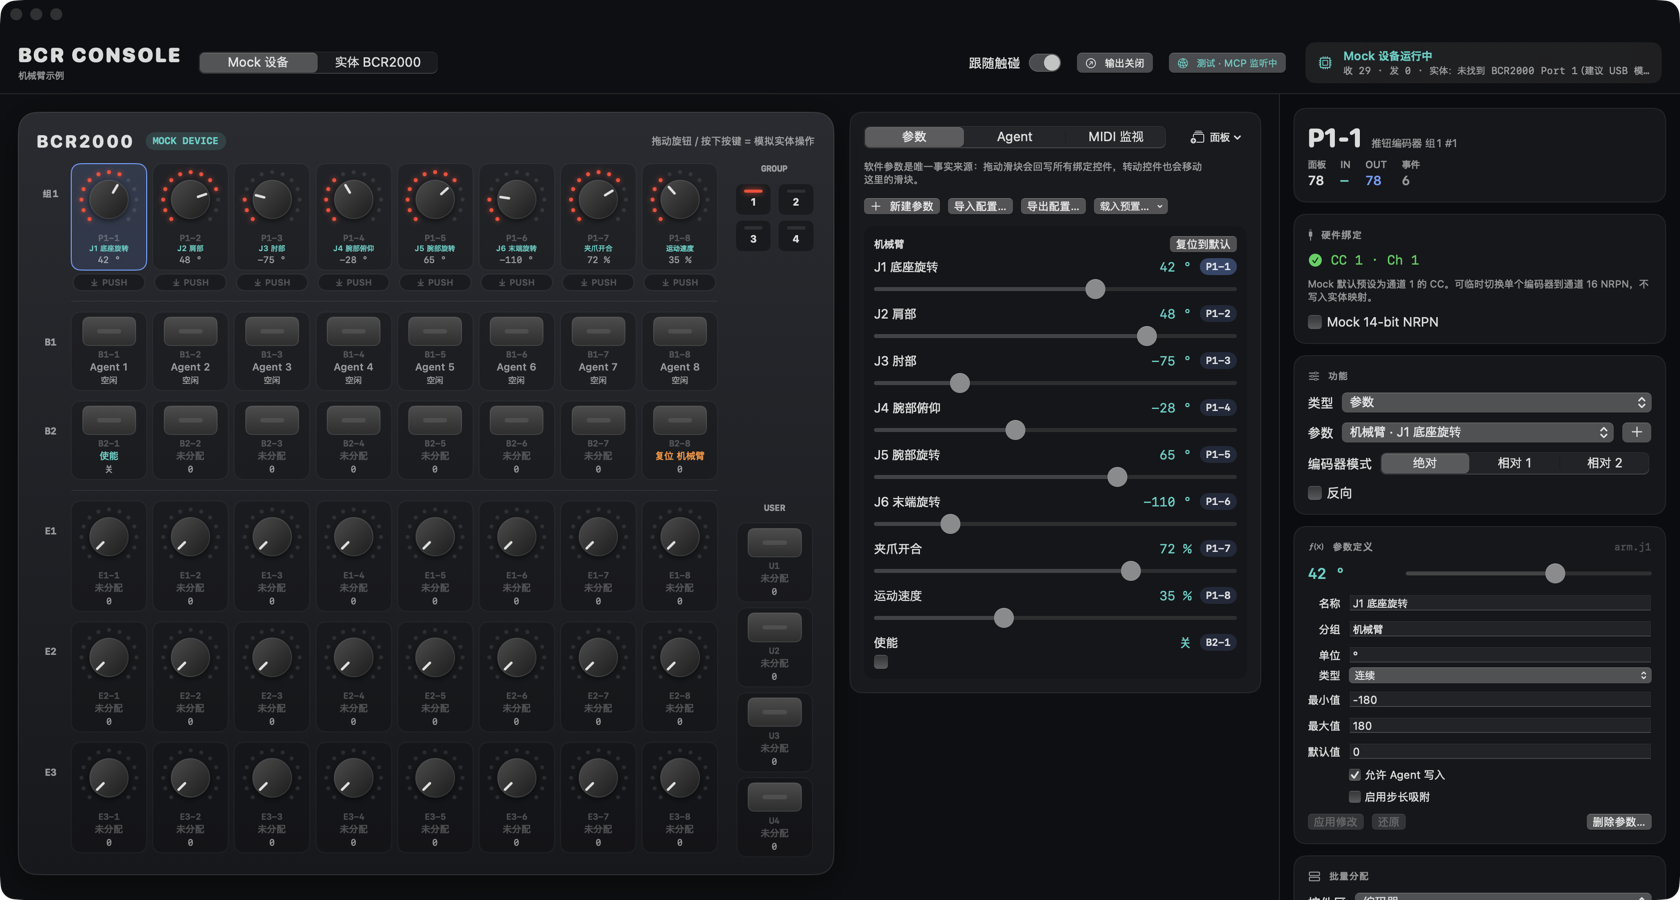
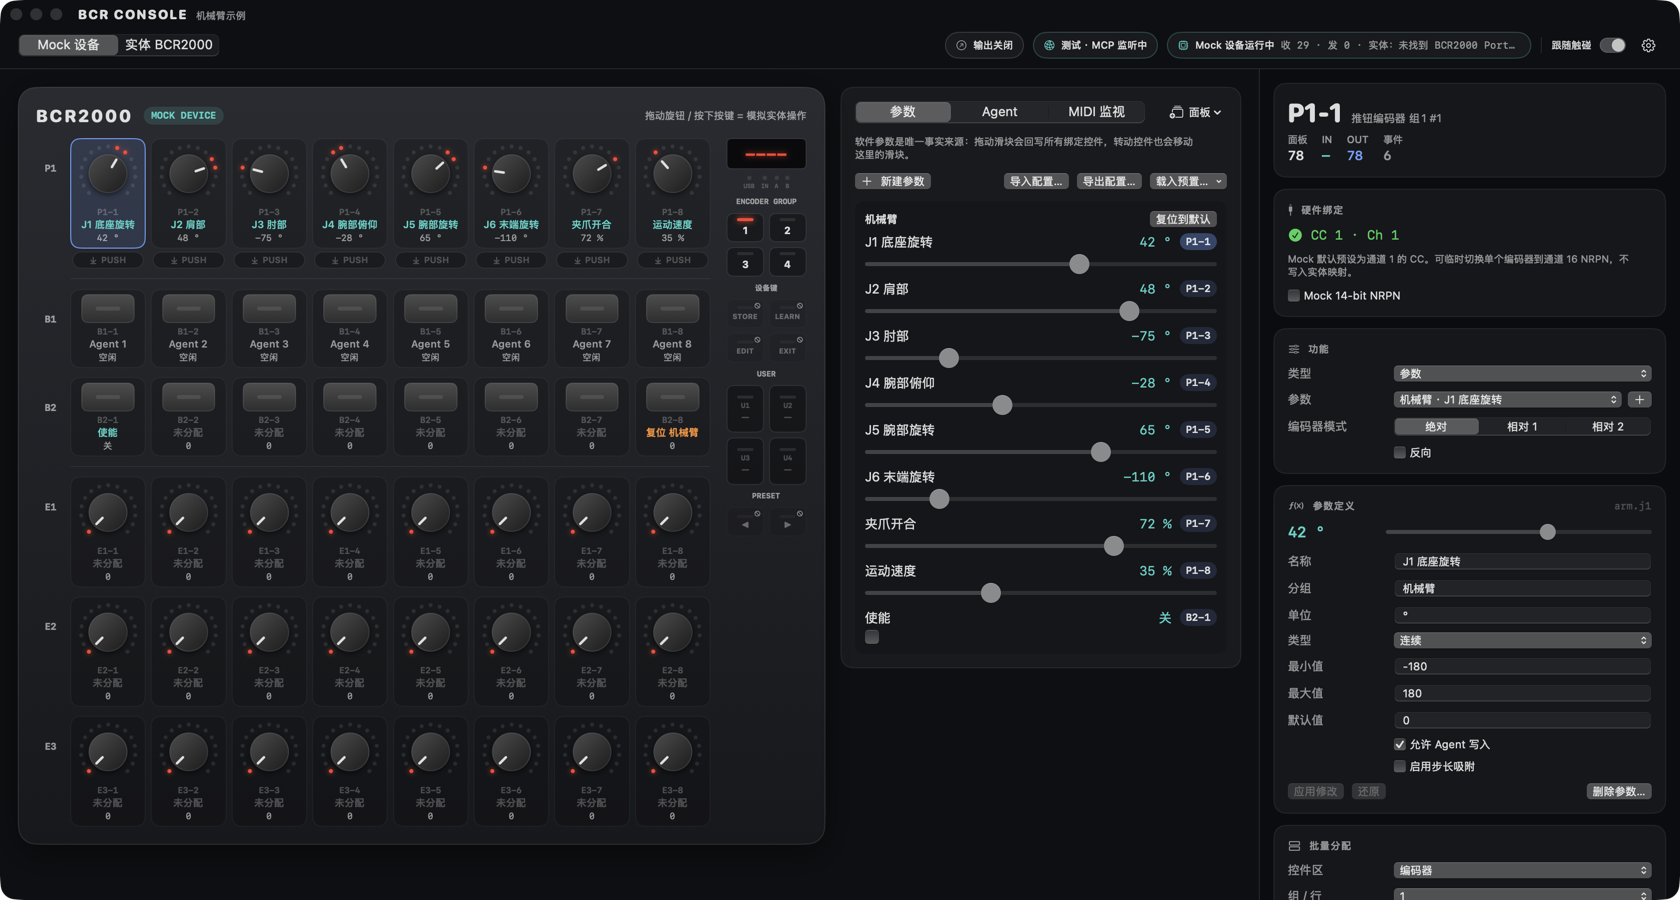
docs(ui): refresh README screenshots and connection guidance
Replace four Mock screenshots and add consent/alignment screenshots from the explicit in-memory fixture. Document confirmation, temporary preset alignment/restore, backup retention and display behavior; provide sequential capture commands. Capture only the isolated app window.

Validation: all six 1680x900 PNGs inspected; capture and native acceptance passed. After rebasing onto edae4d4 and updating SurfacePlugins to 6071354, 525 Swift tests, 76 workflow tests, boundaries, app build, bilingual startup and native connection acceptance passed. Initial overlapping capture attempt hit a port conflict; reran sequentially. Accessibility and screen-recording permissions were available; no real device was used.

diff --git a/tools/native_ui.py b/tools/native_ui.py
@@ -1,5 +1,6 @@
 """PID-scoped native accessibility helpers for isolated acceptance scripts."""
 
+import json
 from pathlib import Path
 import subprocess
 import time
@@ -42,6 +43,27 @@ end tell"""
         print("AXPress", identifier, flush=True)
         if not self.command("press", identifier):
             raise RuntimeError(f"Accessibility identifier missing: {identifier}")
+
+    def capture(self, path, width=1680):
+        # Capture only the isolated main window. Other applications and desktop pixels are excluded.
+        script = (
+            'ObjC.import("CoreGraphics");'
+            "var all=ObjC.deepUnwrap(ObjC.castRefToObject($.CGWindowListCopyWindowInfo(0,0)));"
+            f"JSON.stringify(all.filter(w=>w.kCGWindowOwnerPID=={self.pid}&&w.kCGWindowLayer==0"
+            f"&&w.kCGWindowBounds.Width=={width}).map(w=>w.kCGWindowNumber))"
+        )
+        result = subprocess.run(
+            ["osascript", "-l", "JavaScript", "-e", script], capture_output=True, text=True, check=True, timeout=15
+        )
+        identifiers = json.loads(result.stdout)
+        if len(identifiers) != 1:
+            raise RuntimeError(f"Expected one isolated main window, found {len(identifiers)}")
+        path = Path(path)
+        path.parent.mkdir(parents=True, exist_ok=True)
+        time.sleep(0.5)
+        subprocess.run(["screencapture", "-x", "-o", f"-l{identifiers[0]}", str(path)], check=True)
+        subprocess.run(["sips", "--resampleWidth", str(width), str(path)], capture_output=True, check=True)
+        print("Captured", path.name, flush=True)
 
     @staticmethod
     def wait(check, message, timeout=12):

diff --git a/tools/verify_connection_ui.py b/tools/verify_connection_ui.py
@@ -36,10 +36,15 @@ def open_preview():
 
 
 def run():
-    ui.run("set frontmost to true\nset position of mainWindow to {40, 40}\nset size of mainWindow to {1200, 760}")
+    capture = os.environ.get("BCR_CAPTURE_README") == "1"
+    size = "{1680, 900}" if capture else "{1200, 760}"
+    images = Path(__file__).resolve().parent.parent / "docs/images"
+    ui.run(f"set frontmost to true\nset position of mainWindow to {{40, 40}}\nset size of mainWindow to {size}")
     ui.wait(lambda: ui.exists("connection.dialog"), "Initial connection confirmation did not appear")
     assert state()["voiceWrites"] == state()["presetWrites"] == 0
     assert status()["hardwareConnection"]["confirmation"] == "pending"
+    if capture:
+        ui.capture(images / "connection-confirmation.png")
     ui.press("connection.decline")
     ui.wait(lambda: status()["hardwareConnection"]["confirmation"] == "declined", "Decline was not observable")
     assert status()["source"] == "mock" and state()["voiceWrites"] == 0
@@ -49,8 +54,10 @@ def run():
     ui.wait(lambda: status()["source"] == "hardware", "Read connection did not complete")
     assert status()["hardwareConnection"]["confirmation"] == "none"
     assert state()["voiceWrites"] == state()["presetWrites"] == 0
-    for _ in range(3):
+    for iteration in range(3):
         open_preview()
+        if capture and iteration == 0:
+            ui.capture(images / "preset-alignment.png")
         ui.press("preset.option.enableButtonFunctions")
         ui.press("preset.option.enableButtonFunctions")
         ui.press("preset.close")

diff --git a/PLAN.md b/PLAN.md
@@ -182,7 +182,7 @@ HW6（高速转动的速率与 30 分钟 soak）。HW3 见 D2。
 
 ## 执行记录
 
-### A1 — `6a71375`
+### A1 — `964151c`（rebase 前 `6a71375`）
 
 - 改动：macos_workflow 增加流式执行与逐包汇总；CONTRIBUTING 引用新入口；新增 test_test_summary.py。
   旧环境测试只把 mock 从 _run 移到 _run_tests，原断言保留。
@@ -192,7 +192,7 @@ HW6（高速转动的速率与 30 分钟 soak）。HW3 见 D2。
 - 过程：初次回归发现旧 mock 入口不匹配及一次误替换，已纠正并完整重跑；未更改既有断言。
 - 未验证/偏离：负例使用临时假 swift 输出，不改生产 Swift 测试。未连接设备。
 
-### A2 — `fc7a587`
+### A2 — `76170eb`（rebase 前 `fc7a587`）
 
 - 改动：BulkAssignmentView、OutputSettingsView（含输出读数）以及 ConsoleViewModel 两条提示接入显示翻译。
 - 验证：Swift 五包 517 项、失败 0；BuildWorkflow 76 项、失败 0；边界、strings lint、App build、
@@ -200,7 +200,7 @@ HW6（高速转动的速率与 30 分钟 soak）。HW3 见 D2。
 - 未验证：未逐项点击英文批量分配/输出窗口；显示函数已有双向翻译与存储不变测试。
   没有存储格式、分组引用或功能逻辑变化，无设备操作。
 
-### A3 — `0c134b6`
+### A3 — `ad0bd2b`（rebase 前 `0c134b6`）
 
 - 改动：新增 PresetBackupStore；ConsoleViewModel 备份入口委托该值类型；新增四项存储测试和一项连续三次预览测试。
 - 验证：Swift 五包 522 项、失败 0；BuildWorkflow 76 项、失败 0；边界与格式检查通过。
@@ -208,3 +208,13 @@ HW6（高速转动的速率与 30 分钟 soak）。HW3 见 D2。
 - 策略：最近 N 取 5，另保留恢复点。SHA-256 新命名校验内容；旧时间戳命名需能解析为完整临时预设才纳入管理。
   未知文件、损坏内容、目录、符号链接不删除；读写与清理错误仍显示为失败。
 - 未验证/偏离：只测试隔离目录与假设备，没有设备操作。没有既有用户数据 schema 变更；备份命名与清理属于 A3 明确范围。
+
+### A4 — `5a16a97`（rebase 前 `f72c966`）
+
+- 改动：两个 sheet 及设备菜单加稳定标识；Debug 专用 IntegrationMIDIFixture、原生 PID 级 AX 工具与
+  verify_connection_ui.py；mcp_integration 显式 fixture 开关；UI_ACCEPTANCE 增加入口和隔离边界。
+- 验证：Swift 五包 523 项、失败 0；BuildWorkflow 76 项、失败 0；边界、strings lint、App build、双语 startup smoke 通过。
+  原生脚本在中英文 1200×760 下均通过：拒绝/读取、三次预览不写设备且备份唯一、选项切换、写入进度、回读、恢复。
+  普通实例单独使用 fixture 参数退出 2，未初始化 MIDI。对应隔离产物：case-hff9li_8、case-c81086b6。
+- 过程/偏离：AppleScript 逐元素遍历超时，改用自动编译的 Swift 6 AX 查找辅助器；窗口操作仍经 System Events。
+  不改真实驱动、Provider 合同或普通隔离模式；没有实体 MIDI/SysEx IO。未验证配置文件驱动的“初始化并连接”分支。

diff --git a/docs/UI_ACCEPTANCE.md b/docs/UI_ACCEPTANCE.md
@@ -63,4 +63,5 @@ Mock 机械臂示例预置，不读取生产配置或 Keychain，不启动实体
 新增非硬件验收入口：CodexSessionIntegrationTests、CodexAgentControllerTests、SurfaceProgramsTests、
 FeedbackSchedulerTests、JSONParameterLinkTests、WebSocketParameterAdapterTests，以及
 `tools/verify_parameter_events.py` / `tools/verify_stdio_bridge.py`。
-原生 Debug 视图快照输出到忽略的 build/ui-validation，不替换 README 的已有截图。
+原生 Debug 视图快照输出到忽略的 build/ui-validation。2026-11-12 已通过屏幕录制权限更新 README 的四张 Mock 截图，
+并以 `BCR_CAPTURE_README=1` 运行连接验收脚本生成两张假设备截图；具体复现命令见 README。
